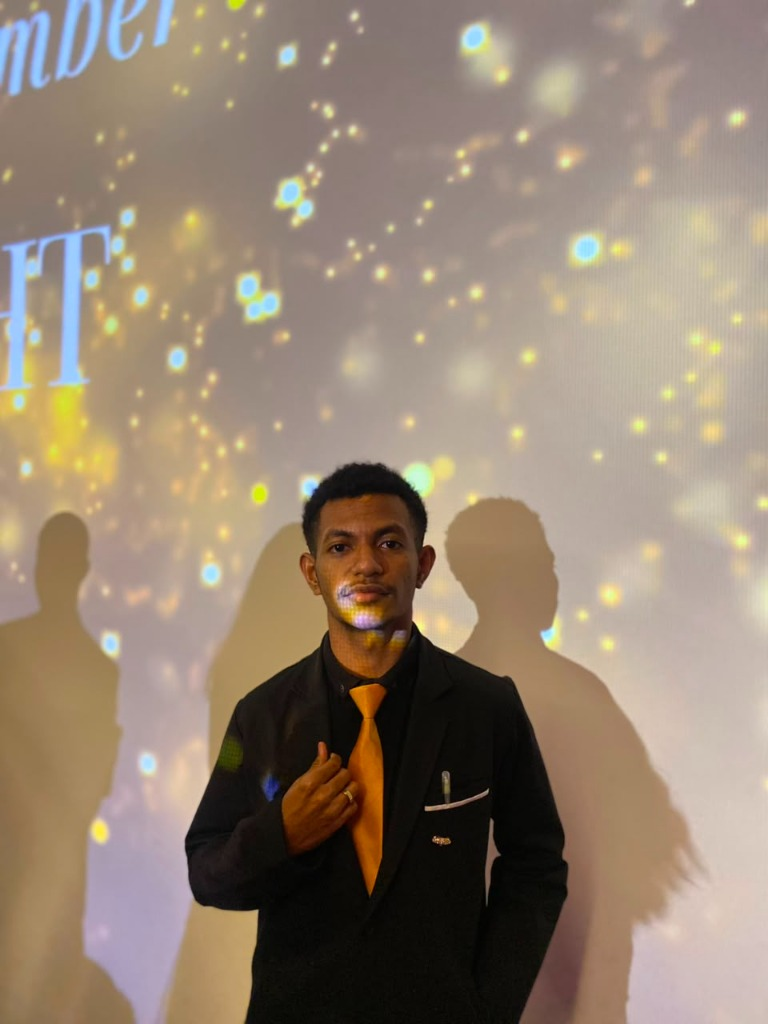
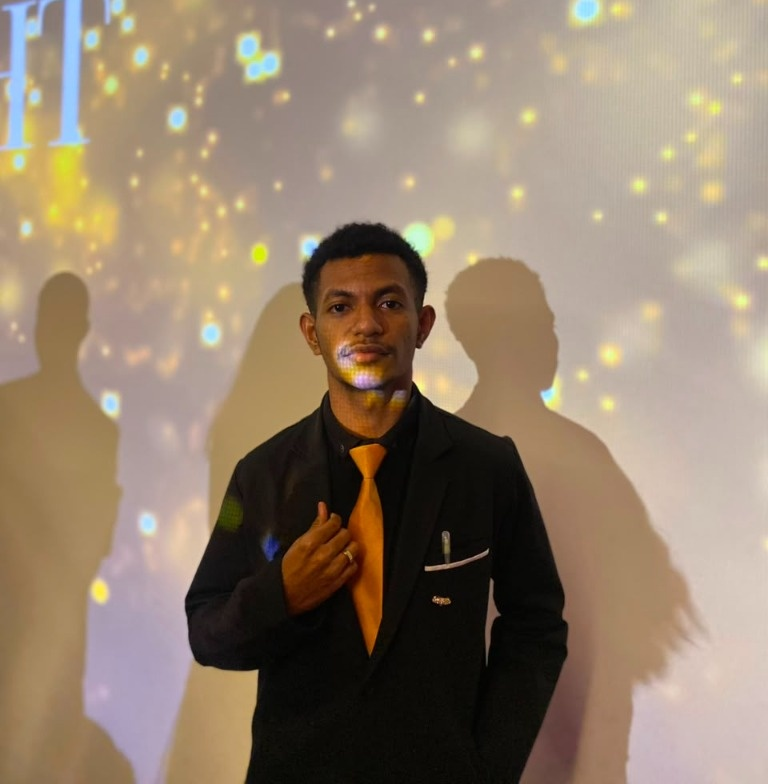
fix(gallery): crop and center daily-formal photo framing

diff --git a/src/data/portfolioData.ts b/src/data/portfolioData.ts
@@ -670,7 +670,7 @@ export const portfolioData: PortfolioData = {
         locationJapanese: "ジャカルタ・インターナショナル・カレッジ（ジャカルタ）",
         aspect: "vertical",
         category: "activity",
-        objectPosition: "center 42%",
+        objectPosition: "center 35%",
       },
       {
         id: "gal-jic-group-happi",
